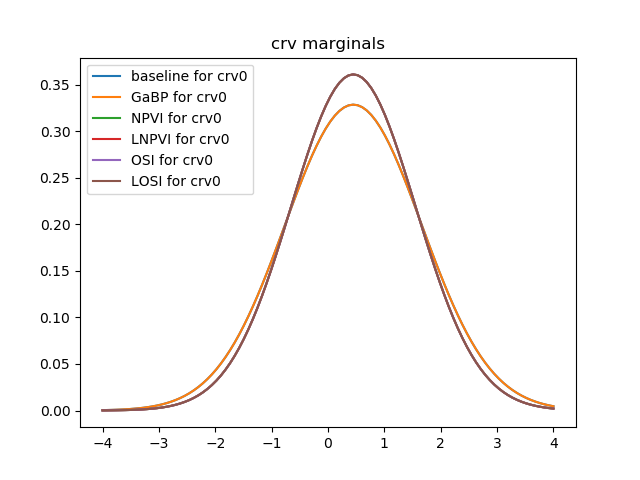
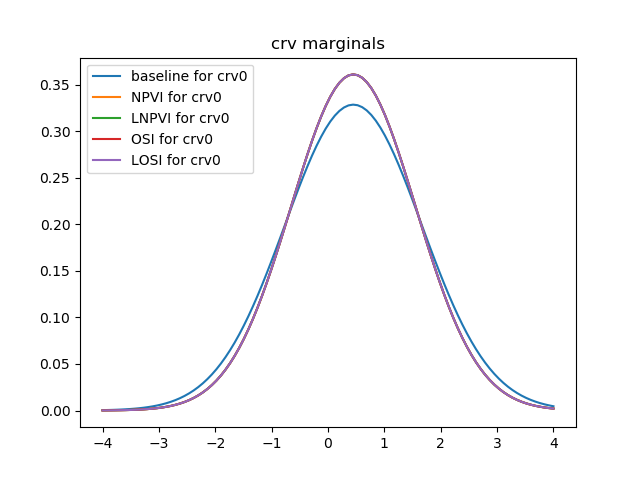
rerun rkm2_experiment.py with lifting working in the conditional graph
baseline:
{'cpu_time': (-1.0, 0.0),
 'kl_err': (0.0, 0.0),
 'mmap_err': (0.0, 0.0),
 'obj': (-1452.4549759600873, 171.82632800532866),
 'wall_time': (-1.0, 0.0)}
NPVI:
{'cpu_time': (105.64680556000003, 2.850074971387901),
 'kl_err': (0.05065055384011954, 0.040397447529242785),
 'mmap_err': (4.94305062876891e-05, 7.1961922500493976e-06),
 'obj': (-1070.978221573417, 187.81348038244144),
 'wall_time': (105.70729975700378, 2.852350866494377)}
LNPVI:
{'cpu_time': (5.126958995800027, 0.15213710935151753),
 'kl_err': (0.05065243206181125, 0.040397460878192556),
 'mmap_err': (5.313272430645457e-05, 3.3079473767715346e-05),
 'obj': (-1070.978317167846, 187.81352135317036),
 'wall_time': (5.113782930374145, 0.15134622587753582)}
OSI:
{'cpu_time': (107.76681322140003, 4.68786409256983),
 'kl_err': (0.05064955369800802, 0.040397031294597804),
 'mmap_err': (4.8273422126562536e-05, 7.600528255308578e-06),
 'obj': (-1292.5259083054248, 187.81373099880562),
 'wall_time': (107.83045692443848, 4.694857576743572)}
LOSI:
{'cpu_time': (5.615747324799997, 1.0140334700715745),
 'kl_err': (0.050645355099000366, 0.040395254355722617),
 'mmap_err': (2.5066363201397038e-05, 2.1088821723208905e-05),
 'obj': (-1292.5260618623386, 187.8135317782628),
 'wall_time': (5.603987169265747, 1.0185114849792727)}

diff --git a/osi/rkm2_experiment.py b/osi/rkm2_experiment.py
@@ -55,7 +55,8 @@ record_fields = ['cpu_time',
                  'kl_err',  # kl(p(xi)||q(xi)), avg over all nodes i
                  ]
 # algo_names = ['baseline', 'EPBP', 'OSI', 'LOSI']
-algo_names = ['baseline', 'GaBP', 'NPVI', 'LNPVI', 'OSI', 'LOSI']
+# algo_names = ['baseline', 'GaBP', 'NPVI', 'LNPVI', 'OSI', 'LOSI']
+algo_names = ['baseline', 'NPVI', 'LNPVI', 'OSI', 'LOSI']
 # algo_names = ['baseline', 'GaBP', 'NPVI', 'LNPVI', 'OSI', 'LOSI']
 # algo_names = ['baseline', 'EPBP']
 # algo_names = ['EPBP']
